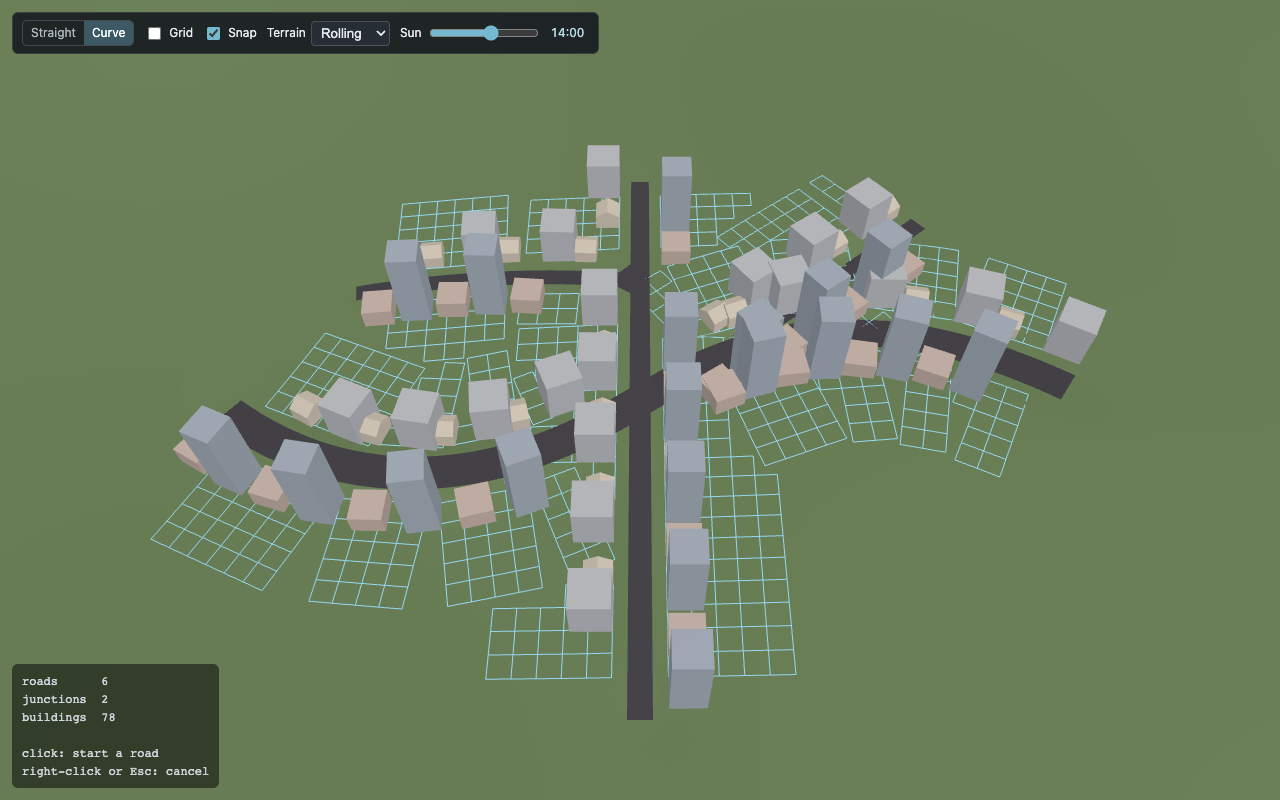
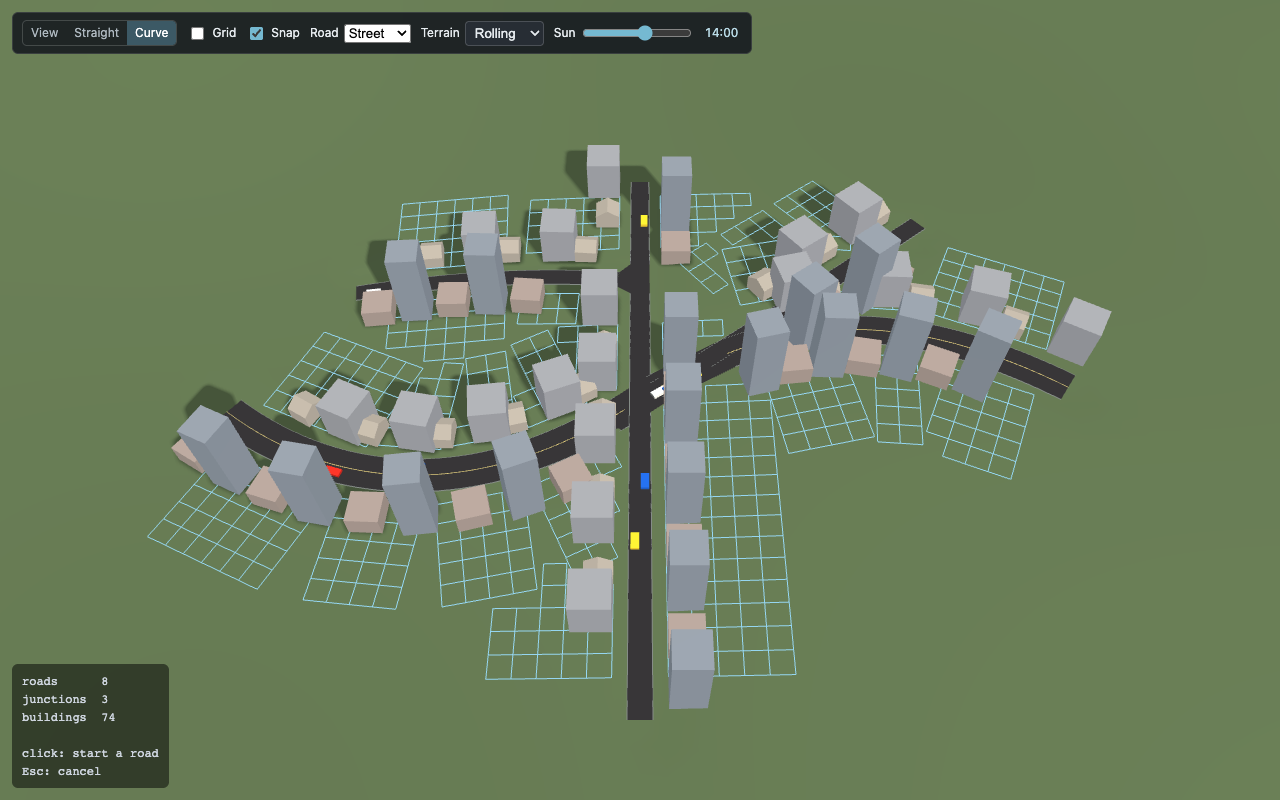
Add road styling and test traffic

diff --git a/src/render/roadMesh.ts b/src/render/roadMesh.ts
@@ -1,5 +1,7 @@
 import type { Scene } from "@babylonjs/core/scene";
 import type { Mesh } from "@babylonjs/core/Meshes/mesh";
+import type { LinesMesh } from "@babylonjs/core/Meshes/linesMesh";
+import { MeshBuilder } from "@babylonjs/core/Meshes/meshBuilder";
 import { VertexData } from "@babylonjs/core/Meshes/mesh.vertexData";
 import { Mesh as MeshClass } from "@babylonjs/core/Meshes/mesh";
 import { StandardMaterial } from "@babylonjs/core/Materials/standardMaterial";
@@ -12,6 +14,7 @@ import { normalizeXZ, perpXZ, sub } from "../sim/vec";
 
 /** Lifted off the ground so the road wins the depth fight with it. */
 export const ROAD_LIFT = 0.06;
+const MARK_LIFT = ROAD_LIFT + 0.05;
 
 /**
  * Turns the graph into road surface. Every mesh here is derived: `rebuild` disposes what
@@ -19,10 +22,12 @@ export const ROAD_LIFT = 0.06;
  */
 export function createRoadRenderer(scene: Scene, graph: RoadGraph) {
   const material = new StandardMaterial("road", scene);
-  material.diffuseColor = new Color3(0.22, 0.22, 0.24);
+  material.diffuseColor = new Color3(0.18, 0.18, 0.19);
   material.specularColor = Color3.Black();
+  const curb = new Color3(0.52, 0.55, 0.53);
+  const lane = new Color3(0.86, 0.78, 0.48);
 
-  let meshes: Mesh[] = [];
+  let meshes: (Mesh | LinesMesh)[] = [];
 
   function rebuild(): void {
     for (const mesh of meshes) mesh.dispose();
@@ -32,6 +37,7 @@ export function createRoadRenderer(scene: Scene, graph: RoadGraph) {
 
     for (const seg of graph.allSegments()) {
       const half = roadType(seg.type).width / 2;
+      const isAvenue = seg.type === "avenue";
       // The surface stops short of each junction; the junction polygon closes the gap.
       const { start, end } = segmentTrims(junctions, graph, seg.id);
       const from = start;
@@ -53,6 +59,11 @@ export function createRoadRenderer(scene: Scene, graph: RoadGraph) {
       ribbon.material = material;
       ribbon.isPickable = false;
       meshes.push(ribbon);
+      meshes.push(styledLine(scene, `curb_l_${seg.id}`, left, curb), styledLine(scene, `curb_r_${seg.id}`, right, curb));
+      if (isAvenue) {
+        const center = pointsBetween(graph, seg.id, from, to, steps, MARK_LIFT);
+        meshes.push(styledLine(scene, `lane_${seg.id}`, center, lane));
+      }
     }
 
     for (const junction of junctions.values()) {
@@ -65,6 +76,23 @@ export function createRoadRenderer(scene: Scene, graph: RoadGraph) {
   }
 
   return { rebuild, material };
+}
+
+function styledLine(scene: Scene, name: string, points: Vector3[], color: Color3, close = false): LinesMesh {
+  const mesh = MeshBuilder.CreateLines(name, { points: close ? [...points, points[0]!] : points }, scene);
+  mesh.color = color;
+  mesh.isPickable = false;
+  return mesh;
+}
+
+function pointsBetween(graph: RoadGraph, id: number, from: number, to: number, steps: number, lift: number): Vector3[] {
+  const points: Vector3[] = [];
+  for (let i = 0; i <= steps; i++) {
+    const d = from + ((to - from) * i) / steps;
+    const { position } = graph.pointAt(id, d);
+    points.push(new Vector3(position.x, position.y + lift, position.z));
+  }
+  return points;
 }
 
 function roadStripMesh(scene: Scene, name: string, left: Vector3[], right: Vector3[]): Mesh {

diff --git a/src/sim/graph.ts b/src/sim/graph.ts
@@ -92,8 +92,12 @@ export class RoadGraph {
 
   /** Places a node, sampling its elevation once. A placed road is a fixed road. */
   addNode(x: number, z: number): NodeId {
+    return this.addNodeAt(v3(x, terrainHeight(x, z), z));
+  }
+
+  private addNodeAt(pos: Vec3): NodeId {
     const id = this.nextNodeId++;
-    this.nodes.set(id, { id, pos: v3(x, terrainHeight(x, z), z), segments: new Set() });
+    this.nodes.set(id, { id, pos, segments: new Set() });
     return id;
   }
 
@@ -101,11 +105,20 @@ export class RoadGraph {
     const na = this.node(a);
     const nb = this.node(b);
     roadType(type); // rejects an unknown type here rather than at render time
+    return this.addBuiltSegment(a, b, control, type, buildSamples(na.pos, control, nb.pos));
+  }
+
+  private addBuiltSegment(
+    a: NodeId,
+    b: NodeId,
+    control: Vec3,
+    type: string,
+    built: Pick<Segment, "samples" | "ts" | "cumulative" | "length">,
+  ): SegmentId {
     const id = this.nextSegmentId++;
-    const built = buildSamples(na.pos, control, nb.pos);
     this.segments.set(id, { id, a, b, control, type, ...built });
-    na.segments.add(id);
-    nb.segments.add(id);
+    this.node(a).segments.add(id);
+    this.node(b).segments.add(id);
     return id;
   }
 
@@ -196,18 +209,19 @@ export class RoadGraph {
   splitSegment(id: SegmentId, distance: number): NodeId {
     const seg = this.segment(id);
     const t = this.paramAt(seg, distance);
-    const a = this.node(seg.a).pos;
-    const b = this.node(seg.b).pos;
+    const a = seg.samples[0]!;
+    const b = seg.samples[seg.samples.length - 1]!;
 
     const q0 = lerp(a, seg.control, t);
     const q1 = lerp(seg.control, b, t);
-    const mid = lerp(q0, q1, t);
+    const mid = this.pointAt(id, distance).position;
+    const split = splitBuilt(seg, mid, t, distance);
 
-    const midId = this.addNode(mid.x, mid.z);
+    const midId = this.addNodeAt(mid);
     // Attach the halves before dropping the original: `removeSegment` collects nodes
     // that are left with nothing, and a and b would be collected here.
-    this.addSegment(seg.a, midId, q0, seg.type);
-    this.addSegment(midId, seg.b, q1, seg.type);
+    this.addBuiltSegment(seg.a, midId, q0, seg.type, split.left);
+    this.addBuiltSegment(midId, seg.b, q1, seg.type, split.right);
     this.removeSegment(id);
     return midId;
   }
@@ -267,4 +281,22 @@ function upperIndex(cumulative: readonly number[], d: number): number {
     else hi = mid;
   }
   return lo;
+}
+
+function splitBuilt(seg: Segment, mid: Vec3, t: number, distance: number) {
+  const i = upperIndex(seg.cumulative, distance);
+  const leftSamples = [...seg.samples.slice(0, i), mid];
+  const rightSamples = [mid, ...seg.samples.slice(i)];
+  const leftTs = [...seg.ts.slice(0, i), t];
+  const rightTs = [t, ...seg.ts.slice(i)];
+  return {
+    left: rebuildBuilt(leftSamples, leftTs),
+    right: rebuildBuilt(rightSamples, rightTs),
+  };
+}
+
+function rebuildBuilt(samples: Vec3[], ts: number[]) {
+  const cumulative = [0];
+  for (let i = 1; i < samples.length; i++) cumulative.push(cumulative[i - 1]! + distXZ(samples[i - 1]!, samples[i]!));
+  return { samples, ts, cumulative, length: cumulative[cumulative.length - 1]! };
 }

diff --git a/src/render/traffic.ts b/src/render/traffic.ts
@@ -1,0 +1,66 @@
+import type { Scene } from "@babylonjs/core/scene";
+import type { Mesh } from "@babylonjs/core/Meshes/mesh";
+import { MeshBuilder } from "@babylonjs/core/Meshes/meshBuilder";
+import { StandardMaterial } from "@babylonjs/core/Materials/standardMaterial";
+import { Color3 } from "@babylonjs/core/Maths/math";
+
+import type { RoadGraph } from "../sim/graph";
+import { roadType } from "../sim/roadTypes";
+import { normalizeXZ, perpXZ } from "../sim/vec";
+import { ROAD_LIFT } from "./roadMesh";
+
+const COLORS = [
+  new Color3(0.86, 0.18, 0.14),
+  new Color3(0.12, 0.38, 0.82),
+  new Color3(0.93, 0.82, 0.18),
+  new Color3(0.9, 0.92, 0.88),
+];
+
+interface Car {
+  readonly mesh: Mesh;
+  readonly segmentId: number;
+  readonly direction: 1 | -1;
+}
+
+export function createTrafficRenderer(scene: Scene, graph: RoadGraph) {
+  const material = COLORS.map((color, i) => {
+    const m = new StandardMaterial(`car_${i}`, scene);
+    m.diffuseColor = color;
+    m.specularColor = Color3.Black();
+    return m;
+  });
+  let cars: Car[] = [];
+
+  function rebuild(): void {
+    for (const car of cars) car.mesh.dispose();
+    cars = [];
+    for (const [si, seg] of graph.allSegments().entries()) {
+      const count = Math.min(4, Math.max(1, Math.floor(seg.length / 80)));
+      for (let i = 0; i < count; i++) {
+        const car = MeshBuilder.CreateBox(`traffic_${seg.id}_${i}`, { width: 3, height: 1.2, depth: 6 }, scene);
+        car.material = material[(si + i) % material.length]!;
+        car.isPickable = false;
+        cars.push({ mesh: car, segmentId: seg.id, direction: i % 2 ? -1 : 1 });
+      }
+    }
+  }
+
+  scene.registerBeforeRender(() => {
+    for (const [i, car] of cars.entries()) {
+      const seg = graph.allSegments().find((candidate) => candidate.id === car.segmentId);
+      if (!seg) {
+        car.mesh.setEnabled(false);
+        continue;
+      }
+      car.mesh.setEnabled(true);
+      const d = ((performance.now() / 1000) * 12 + i * 35) % seg.length;
+      const { position, tangent } = graph.pointAt(seg.id, car.direction === 1 ? d : seg.length - d);
+      const n = perpXZ(normalizeXZ(tangent));
+      const offset = Math.max(1.8, roadType(seg.type).width * 0.22) * -car.direction;
+      car.mesh.position.set(position.x + n.x * offset, position.y + ROAD_LIFT + 0.75, position.z + n.z * offset);
+      car.mesh.rotation.y = Math.atan2(tangent.x * car.direction, tangent.z * car.direction);
+    }
+  });
+
+  return { rebuild, count: () => cars.length };
+}

diff --git a/src/app/app.ts b/src/app/app.ts
@@ -4,6 +4,7 @@ import { createDrawTool } from "../render/drawTool";
 import { createGround, createWorldGrid, GROUND_CELL, GROUND_SIZE } from "../render/ground";
 import { createRoadRenderer } from "../render/roadMesh";
 import { createScene } from "../render/scene";
+import { createTrafficRenderer } from "../render/traffic";
 import { RoadGraph } from "../sim/graph";
 import { Heightmap, rollingHills } from "../sim/heightmap";
 import { setTerrain } from "../sim/terrain";
@@ -20,6 +21,7 @@ export async function startApp(): Promise<void> {
   const ground = createGround(scene, heightmap);
   const worldGrid = createWorldGrid(scene, heightmap);
   const roads = createRoadRenderer(scene, graph);
+  const traffic = createTrafficRenderer(scene, graph);
   const buildings = await createBuildingRenderer(scene, graph, shadows);
   let buildingCount = 0;
 
@@ -41,6 +43,7 @@ export async function startApp(): Promise<void> {
     ground.refresh();
     worldGrid.rebuild();
     roads.rebuild();
+    traffic.rebuild();
     buildingCount = buildings.rebuild();
     refreshHud();
   };
@@ -50,6 +53,10 @@ export async function startApp(): Promise<void> {
   bindControls({
     onRoadMode(mode) {
       tool.setMode(mode);
+      refreshHud();
+    },
+    onRoadType(type) {
+      tool.setRoadType(type);
       refreshHud();
     },
     onWorldGrid: worldGrid.setVisible,
@@ -77,6 +84,8 @@ export async function startApp(): Promise<void> {
     segments: graph.allSegments().length,
     junctions: graph.allNodes().filter((node) => node.segments.size >= 3).length,
     buildings: buildingCount,
+    avenues: graph.allSegments().filter((segment) => segment.type === "avenue").length,
+    cars: traffic.count(),
     models: buildings.modelCount,
     activeMeshes: scene.getActiveMeshes().length,
   }));

diff --git a/index.html b/index.html
@@ -28,7 +28,7 @@
   .segmented input { position: absolute; opacity: 0; }
   .segmented span { padding: 5px 8px; color: #aeb8c0; cursor: pointer; }
   .segmented input:checked + span { color: #fff; background: #3c5965; }
-  #terrain { color: #e6ebef; background: #272d34; border: 1px solid #ffffff2b; border-radius: 4px; padding: 3px 5px; }
+  #toolbar select { color: #e6ebef; background: #272d34; border: 1px solid #ffffff2b; border-radius: 4px; padding: 3px 5px; }
   #sun-hour { width: 110px; }
   #sun-time { width: 38px; color: #b9dbe7; font-variant-numeric: tabular-nums; }
   @media (max-width: 680px) { #sun-hour { width: 80px; } }
@@ -42,6 +42,12 @@
   </div>
   <label><input id="show-grid" type="checkbox" /> Grid</label>
   <label><input id="grid-snap" type="checkbox" checked /> Snap</label>
+  <label>Road
+    <select id="road-type">
+      <option value="street">Street</option>
+      <option value="avenue">Avenue</option>
+    </select>
+  </label>
   <label>Terrain
     <select id="terrain">
       <option value="rolling">Rolling</option>

diff --git a/src/render/drawTool.ts b/src/render/drawTool.ts
@@ -33,10 +33,12 @@ export interface DrawTool {
   cancel(): void;
   setMode(mode: ToolMode): void;
   setGridSnap(enabled: boolean): void;
+  setRoadType(type: RoadTypeId): void;
 }
 
 export type DrawMode = "straight" | "curve";
 export type ToolMode = "view" | DrawMode;
+export type RoadTypeId = "street" | "avenue";
 
 export function createDrawTool(
   scene: Scene,
@@ -44,11 +46,12 @@ export function createDrawTool(
   ground: Mesh,
   onCommitted: () => void,
   onRefused: (reason: string) => void,
-  typeId = "street",
+  initialTypeId: RoadTypeId = "street",
 ): DrawTool {
   let stage: Stage = { phase: "idle" };
   let mode: ToolMode = "curve";
   let gridSnap = true;
+  let typeId = initialTypeId;
   let preview: LinesMesh | null = null;
   let leftPointerDown = false;
   const nodeHighlight = MeshBuilder.CreateLines(
@@ -193,6 +196,10 @@ export function createDrawTool(
     },
     setGridSnap(enabled) {
       gridSnap = enabled;
+      cancel();
+    },
+    setRoadType(next) {
+      typeId = next;
       cancel();
     },
   };

diff --git a/src/ui/controls.ts b/src/ui/controls.ts
@@ -1,5 +1,6 @@
 export function bindControls(handlers: {
   onRoadMode(mode: "view" | "straight" | "curve"): void;
+  onRoadType(type: "street" | "avenue"): void;
   onWorldGrid(visible: boolean): void;
   onGridSnap(enabled: boolean): void;
   onTerrain(preset: "rolling" | "rugged"): boolean;
@@ -17,6 +18,10 @@ export function bindControls(handlers: {
 
   document.getElementById("grid-snap")!.addEventListener("change", (event) => {
     handlers.onGridSnap((event.currentTarget as HTMLInputElement).checked);
+  });
+
+  document.getElementById("road-type")!.addEventListener("change", (event) => {
+    handlers.onRoadType((event.currentTarget as HTMLSelectElement).value === "avenue" ? "avenue" : "street");
   });
 
   const terrain = document.getElementById("terrain") as HTMLSelectElement;

diff --git a/src/render/debugApi.ts b/src/render/debugApi.ts
@@ -7,6 +7,7 @@ export interface DebugApi {
   /** Escape hatch for the verification scripts; not used by the game. */
   readonly _scene?: unknown;
   reset(): void;
+  rebuild(): void;
   road(x0: number, z0: number, cx: number, cz: number, x1: number, z1: number, type?: string): boolean;
   demoNetwork(): void;
   demoCity(): void;
@@ -30,6 +31,7 @@ export function installDebugApi(
       for (const seg of graph.allSegments()) graph.removeSegment(seg.id);
       rebuild();
     },
+    rebuild,
     road(x0, z0, cx, cz, x1, z1, type = "street") {
       const from = resolveSnap(graph, x0, z0);
       const to = resolveSnap(graph, x1, z1);

diff --git a/src/sim/graph.test.ts b/src/sim/graph.test.ts
@@ -119,6 +119,19 @@ describe("split", () => {
     expect(lengths[0]).toBeCloseTo(30, 1);
     expect(lengths[1]).toBeCloseTo(70, 1);
   });
+
+  it("keeps the original road elevation when splitting after terrain changes", () => {
+    setTerrain({ heightAt: () => 12 });
+    try {
+      const g = new RoadGraph();
+      const id = g.addSegment(g.addNode(0, 0), g.addNode(100, 0), v3(50, 0, 0));
+      setTerrain({ heightAt: () => -20 });
+      const mid = g.splitSegment(id, 50);
+      expect(g.node(mid).pos.y).toBeCloseTo(12, 6);
+    } finally {
+      setTerrain(flatTerrain);
+    }
+  });
 });
 
 describe("elevation", () => {
